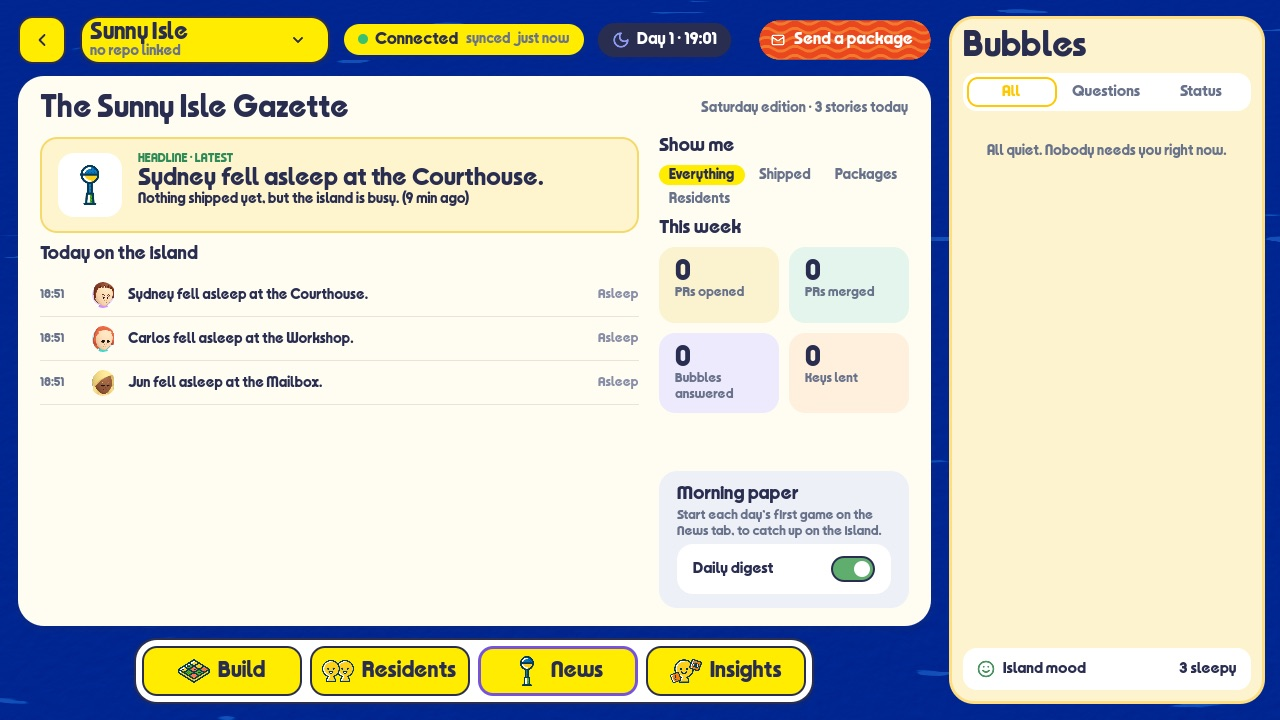
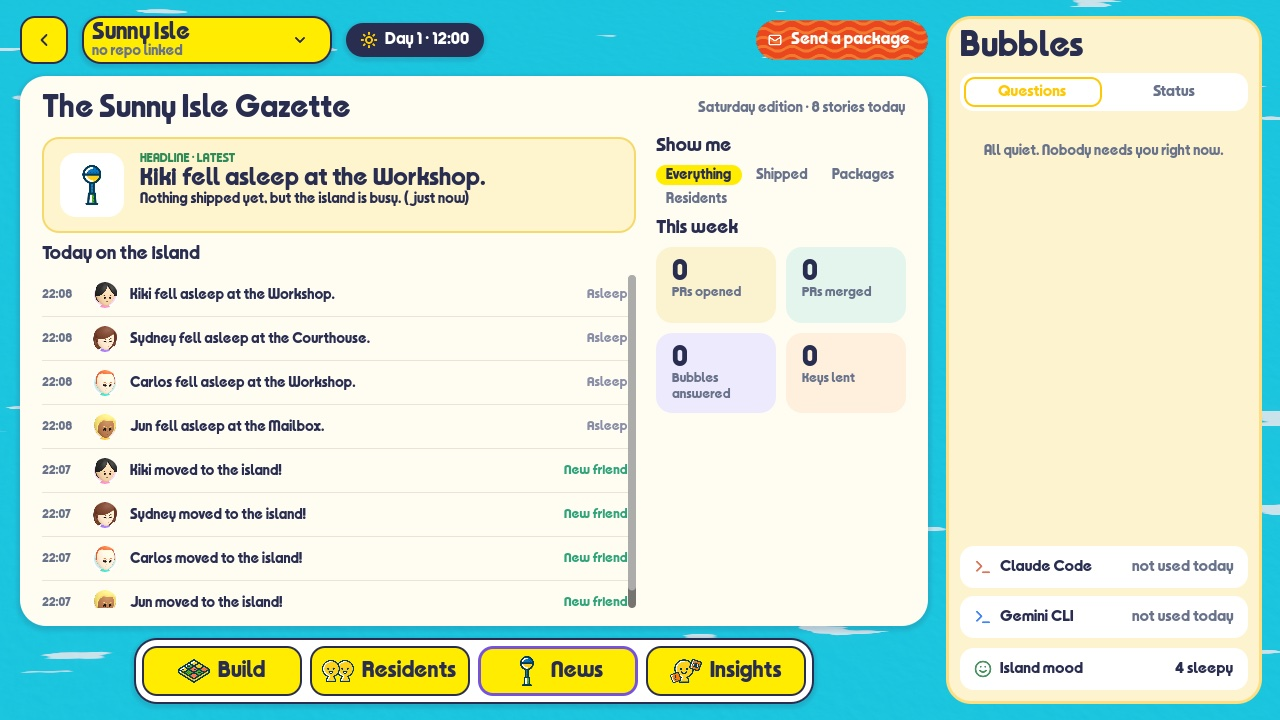
Landing page: daytime screenshots, a talk in the hero, Mac first-launch popup, DreamLife heading, fan-project note, no Linux

diff --git a/deploy/landing/index.html b/deploy/landing/index.html
@@ -32,6 +32,7 @@
     --bubble: #e3f1fa;
     --font: "Nunito", ui-rounded, "SF Pro Rounded", system-ui, -apple-system, sans-serif;
   }
+  @font-face { font-family: "DreamLife"; src: url("dreamlife.ttf") format("truetype"); font-display: swap; }
   * { box-sizing: border-box; }
   html { scroll-behavior: smooth; }
   body { margin: 0; font-family: var(--font); font-weight: 600; font-size: 17px; line-height: 1.5; color: var(--ink); background: var(--white); }
@@ -87,10 +88,9 @@
   .hero .lede { max-width: 640px; margin: 14px auto 26px; font-size: 20px; font-weight: 600; color: var(--ink); }
   .ctas { display: flex; flex-wrap: wrap; justify-content: center; gap: 14px; }
   .hero .free { margin-top: 14px; font-size: 14px; font-weight: 800; color: var(--navy); }
-  .tag { display: inline-block; margin: 36px auto 14px; background: var(--yellow); color: var(--navy); font-weight: 900; font-size: 17px; padding: 8px 18px; border-radius: 8px; transform: rotate(-1.5deg); box-shadow: 0 3px 0 rgba(21, 60, 97, .25); }
 
   /* The app screenshot in a navy frame, with Miis and speech bubbles around it. */
-  .peek { position: relative; max-width: 1240px; margin: 0 auto; padding: 0 0 70px; }
+  .peek { position: relative; max-width: 1240px; margin: 36px auto 0; padding: 0 0 70px; }
   .frame { position: relative; z-index: 2; max-width: 720px; margin: 0 auto; border: 6px solid var(--navy); border-radius: 22px; overflow: hidden; background: var(--navy); box-shadow: 0 16px 40px rgba(21, 60, 97, .28); }
   .frame img { width: 100%; }
   .mii { position: absolute; z-index: 3; pointer-events: none; filter: drop-shadow(0 10px 8px rgba(0, 0, 0, .25)); }
@@ -133,7 +133,7 @@
 
   /* White: get it. */
   .getit { display: flex; align-items: flex-start; justify-content: space-between; gap: 24px; flex-wrap: wrap; }
-  .getit h2 { text-align: left; font-size: clamp(32px, 3.6vw, 46px); }
+  .getit h2 { text-align: left; font-family: "DreamLife", var(--font); font-weight: 400; font-size: clamp(36px, 4vw, 52px); }
   .getit .sub { color: var(--ink-soft); font-size: 15px; margin-top: 6px; }
   .steps { display: grid; grid-template-columns: repeat(3, 1fr); gap: 36px; margin-top: 36px; }
   .step { display: grid; grid-template-columns: 48px 1fr; gap: 14px; align-items: start; }
@@ -143,7 +143,20 @@
   .brains { margin-top: 36px; background: var(--cream); border-radius: 12px; padding: 16px 20px; display: flex; flex-wrap: wrap; gap: 10px 28px; align-items: center; font-weight: 800; color: var(--navy); font-size: 16px; }
   .brains .brain { display: inline-flex; align-items: center; gap: 8px; }
   .brains .brain img { width: 22px; height: 22px; }
-  .firstlaunch { text-align: center; color: var(--ink-soft); font-size: 13px; margin-top: 24px; }
+
+  /* The Mac first-launch popup (a <dialog>, opened when the Mac download starts). */
+  .howto { border: 4px solid var(--navy); border-radius: 22px; padding: 0; max-width: 560px; width: calc(100% - 32px); color: var(--ink); box-shadow: 0 6px 0 var(--navy), 0 20px 50px rgba(21, 60, 97, .35); }
+  .howto::backdrop { background: rgba(21, 60, 97, .45); }
+  .howto .inner { padding: 28px 30px 26px; }
+  .howto h2 { font-family: "DreamLife", var(--font); font-weight: 400; font-size: 34px; text-align: left; }
+  .howto .why { color: var(--ink-soft); font-size: 15px; margin-top: 6px; }
+  .howto ol { list-style: none; padding: 0; margin: 20px 0 0; display: grid; gap: 14px; }
+  .howto li { display: grid; grid-template-columns: 36px 1fr; gap: 12px; align-items: start; font-size: 16px; }
+  .howto li .n { width: 36px; height: 36px; border-radius: 50%; background: var(--yellow); color: var(--navy); display: grid; place-items: center; font-weight: 900; }
+  .howto b { color: var(--navy); font-weight: 900; }
+  .howto code { background: var(--bubble); border-radius: 6px; padding: 2px 6px; font-size: 13px; word-break: break-all; }
+  .howto .alt { margin-top: 18px; font-size: 13px; color: var(--ink-soft); }
+  .howto .close { margin-top: 22px; display: flex; justify-content: flex-end; }
 
   /* Light blue: the team. */
   .band-sky { background: var(--sky); }
@@ -156,7 +169,7 @@
   footer { background: var(--sky-deep); padding: 26px 0; }
   footer .wrap { display: flex; flex-wrap: wrap; justify-content: space-between; gap: 12px 30px; align-items: center; }
   footer b { font-weight: 900; color: var(--navy); font-size: 15px; display: block; }
-  footer small { color: var(--ink-soft); font-size: 12px; }
+  footer small { color: var(--ink-soft); font-size: 10px; }
   footer nav { display: flex; gap: 26px; }
   footer nav a { font-weight: 900; color: var(--blue); text-decoration: none; font-size: 15px; }
 
@@ -205,17 +218,16 @@
       <h1>Little lives. <em>Real work.</em></h1>
       <p class="lede">Your repo is an island. Your AI agents are the residents. Give them a task. Get a real GitHub PR.</p>
       <div class="ctas">
-        <a class="btn btn-yellow" href="/download/Mii-nagement.dmg"><img src="brands/apple.svg" alt="" width="20" height="20">Download for Mac</a>
+        <a class="btn btn-yellow" href="/download/Mii-nagement.dmg" data-howto><img src="brands/apple.svg" alt="" width="20" height="20">Download for Mac</a>
         <a class="btn" href="/download/Mii-nagement-windows.zip"><img src="brands/windows.svg" alt="" width="18" height="18">Download for Windows</a>
       </div>
       <p class="free">Don't pay extra: use your own AI subscription or API key.</p>
-      <div class="tag">1 git repository = 1 little island</div>
 
       <div class="peek">
         <div class="bubble left">Can I run this command?<small>You answer. They get to work.</small></div>
         <div class="mii blue"><img src="hero_mii_blue.png" alt="" width="283" height="700"></div>
         <div class="mii red"><img src="hero_mii_red.png" alt="" width="313" height="700"></div>
-        <div class="frame"><img src="island.jpg" alt="The island screen: Sunny Isle with five buildings, a pond, trees and the Bubbles panel" width="1280" height="720"></div>
+        <div class="frame"><img src="talk.jpg" alt="Talking with Carlos inside the Workshop: he explains, from the code he just read, the choice to make before he starts" width="1280" height="720"></div>
         <div class="mii green"><img src="hero_mii_green.png" alt="" width="283" height="700"></div>
         <div class="bubble right">Big personalities. Occasional naps.</div>
       </div>
@@ -245,7 +257,7 @@
       <h2>Not just a task queue. A whole little life.</h2>
       <div class="trio">
         <div>
-          <div class="frame"><img src="residents.jpg" alt="The Residents screen: Carlos the Coder, Jun the Planner and Sydney the Reviewer" width="1280" height="720" loading="lazy"></div>
+          <div class="frame"><img src="residents.jpg" alt="The Residents screen: Carlos and Kiki the Coders, Jun the Planner and Sydney the Reviewer" width="1280" height="720" loading="lazy"></div>
           <h3>Meet your very particular people.</h3>
           <p>Planner, Coder, Reviewer. Each with a personality, a mood, and a diary.</p>
         </div>
@@ -267,11 +279,11 @@
     <div class="wrap">
       <div class="getit">
         <div>
-          <h2>Your island is waiting.</h2>
-          <p class="sub">Your own AI subscription or API key · Apple Silicon &amp; Intel · Linux from source</p>
+          <h2>Your island is waiting</h2>
+          <p class="sub">Your own AI subscription or API key</p>
         </div>
         <div class="ctas">
-          <a class="btn btn-yellow" href="/download/Mii-nagement.dmg"><img src="brands/apple.svg" alt="" width="20" height="20">Download for Mac</a>
+          <a class="btn btn-yellow" href="/download/Mii-nagement.dmg" data-howto><img src="brands/apple.svg" alt="" width="20" height="20">Download for Mac</a>
           <a class="btn" href="/download/Mii-nagement-windows.zip"><img src="brands/windows.svg" alt="" width="18" height="18">Download for Windows</a>
         </div>
       </div>
@@ -287,7 +299,6 @@
         <span class="brain"><img src="brands/gemini.svg" alt="" width="22" height="22">Gemini CLI</span>
         <span class="brain"><img src="brands/openrouter.svg" alt="" width="22" height="22">OpenRouter</span>
       </div>
-      <p class="firstlaunch">Mac first launch: Privacy &amp; Security → Open Anyway.</p>
     </div>
   </section>
 
@@ -307,13 +318,33 @@
   <div class="wrap">
     <div>
       <b>Mii-nagement · A little more life in your workflow.</b>
-      <small>An independent project. Not affiliated with or endorsed by Nintendo.</small>
+      <small>Not affiliated with Nintendo. This is a fan project.</small>
     </div>
     <nav aria-label="Footer">
-      <a class="ext" href="https://github.com/jkusuda/Mii-nagement/blob/main/README.md">Linux from source</a>
       <a class="ext" href="https://github.com/jkusuda/Mii-nagement">GitHub</a>
     </nav>
   </div>
 </footer>
+
+<dialog class="howto" id="howto" aria-labelledby="howto-title">
+  <div class="inner">
+    <h2 id="howto-title">Your download has started!</h2>
+    <p class="why">Mii-nagement isn't from the App Store yet, so the first time you open it macOS asks you to confirm it.</p>
+    <ol>
+      <li><span class="n">1</span><div>Open <b>Mii-nagement.dmg</b> and drag <b>Mii-nagement</b> into <b>Applications</b>.</div></li>
+      <li><span class="n">2</span><div>Open it. When macOS says it can't check it, click <b>Done</b>.</div></li>
+      <li><span class="n">3</span><div>Go to <b>System Settings → Privacy &amp; Security</b>, scroll down, and click <b>Open Anyway</b>.</div></li>
+      <li><span class="n">4</span><div>Click <b>Open Anyway</b> again and enter your password. From then on it opens like any app.</div></li>
+    </ol>
+    <p class="alt">Prefer Terminal? <code>xattr -dr com.apple.quarantine /Applications/Mii-nagement.app</code></p>
+    <form method="dialog" class="close"><button class="btn btn-yellow btn-small">Got it!</button></form>
+  </div>
+</dialog>
+<script>
+  // The Mac download keeps going (the link's normal click); the popup explains the first launch.
+  const howto = document.getElementById("howto");
+  document.querySelectorAll("[data-howto]").forEach((a) => a.addEventListener("click", () => howto.showModal()));
+  howto.addEventListener("click", (e) => { if (e.target === howto) howto.close(); });
+</script>
 </body>
 </html>
